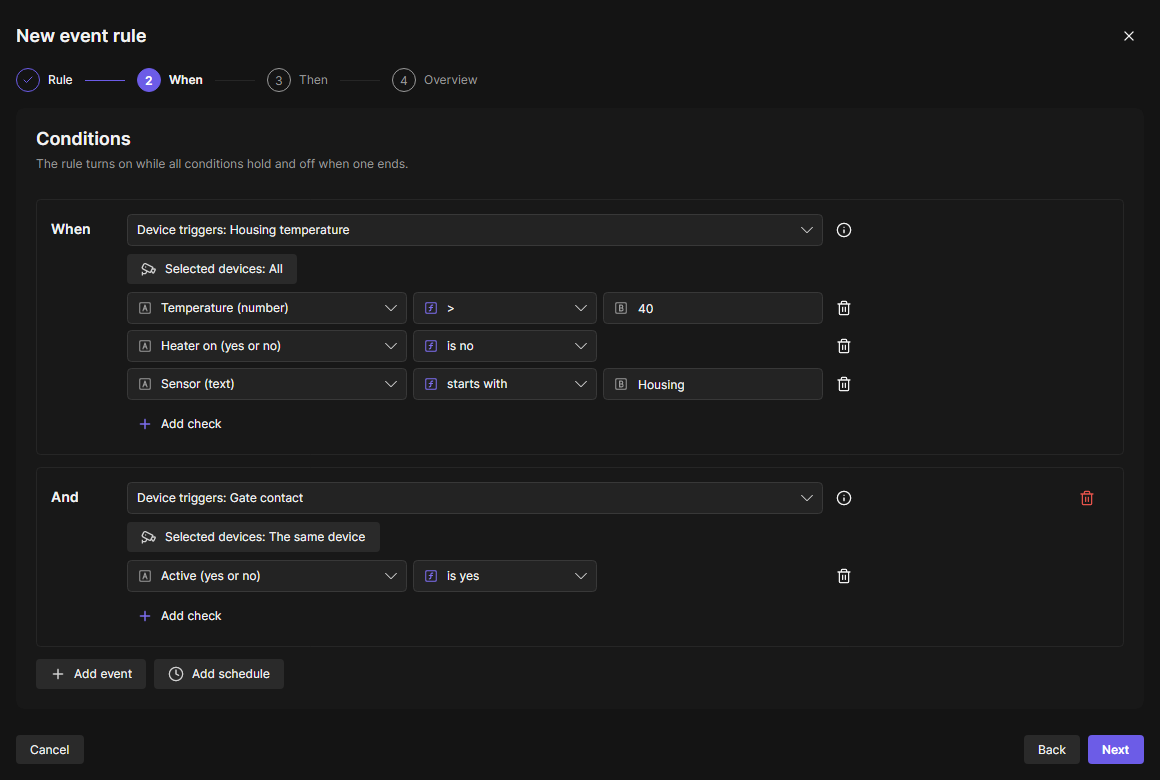
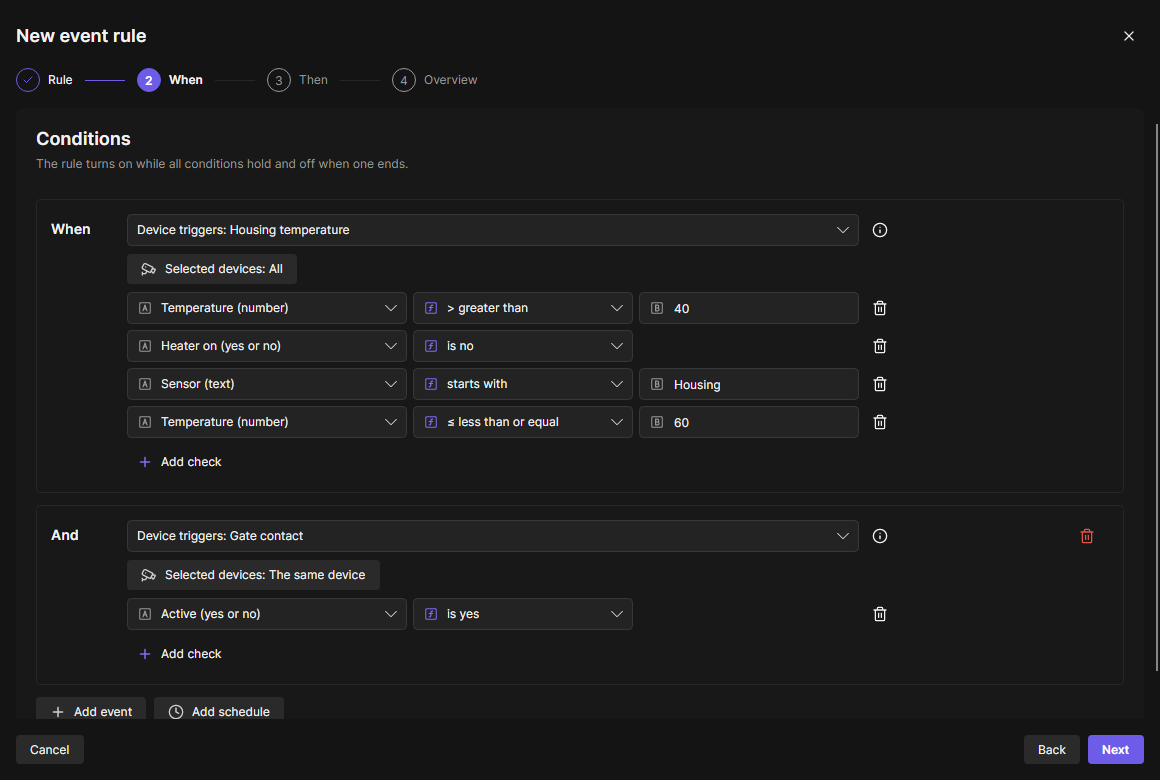
docs: event rule checks screenshot with the operator words; RuleChecks.Label in the SDK history

diff --git a/website/src/content/docs/dev/compatibility.md b/website/src/content/docs/dev/compatibility.md
@@ -78,7 +78,7 @@ in a context of its own, so two plugins can use different versions of the same l
 
 | SDK | OADM | What changed |
 |---|---|---|
-| 0.9.0 | 4.9 | Files from axis.com with the MyAxis sign-in of the user who started a task: `ITaskExecutionContext.AxisDownloads` (`IAxisDownloads`, `AxisDownloadedFile`, `AxisDownloadException`; the host downloads, checks size and SHA-256 and caches; the plugin never gets the session). Client: `ITaskDialogContext.MyAxis` (`IMyAxisSignIn`). Testing: `FakeAxisDownloads`, `FakeTaskContext.AxisDownloads`. Field checks of event rules: `RuleCondition.Checks` (`RuleCheck`, `RuleCheckOperator`), `RuleChecks` (operators by `EventValueKind`, the shared rules of a check, `Describe`, `TooMany`, `NoSuchValueText`), `RuleCondition.AllChecks` (older equals filters as `RuleCheck.IsLegacy` checks). A plugin event field with `Filter` true can be checked in a rule; `EventField.Kind` comes from `Type` when not declared (Number = number). |
+| 0.9.0 | 4.9 | Files from axis.com with the MyAxis sign-in of the user who started a task: `ITaskExecutionContext.AxisDownloads` (`IAxisDownloads`, `AxisDownloadedFile`, `AxisDownloadException`; the host downloads, checks size and SHA-256 and caches; the plugin never gets the session). Client: `ITaskDialogContext.MyAxis` (`IMyAxisSignIn`). Testing: `FakeAxisDownloads`, `FakeTaskContext.AxisDownloads`. Field checks of event rules: `RuleCondition.Checks` (`RuleCheck`, `RuleCheckOperator`), `RuleChecks` (operators by `EventValueKind`, the shared rules of a check, `Describe`, `Label`, `TooMany`, `NoSuchValueText`), `RuleCondition.AllChecks` (older equals filters as `RuleCheck.IsLegacy` checks). A plugin event field with `Filter` true can be checked in a rule; `EventField.Kind` comes from `Type` when not declared (Number = number). |
 | 0.8.0 | 4.8 | Devices with a live video stream: `IDeviceInfo.HasLiveVideo` and `DeviceCategories.HasLiveVideo` (the devices with `HasVideo` and security radars, their radar picture; for live video only). |
 | 0.7.0 | 4.7 | Core plugin pages run a task plugin like the context menu: `ICorePluginClientContext.RunTaskAsync`, also on a part of its dialog (`RunTaskAsync(pluginId, deviceIds, startView, ct)`, read by the dialog as `ITaskDialogContext.StartView`). A page opens a page of a device's web interface in Web View: `ICorePluginClientContext.OpenDevicePage`, `OpenDevicePageRequested`, `DevicePageRequest`. How a task ended: `ITaskRunner.GetOutcomeAsync` (`TaskOutcome`, `TaskEndState`). Testing: `FakeCoreContext.EndTask(id, state, message)` |
 | 0.6.0 | 4.6 | Measuring video streams on the server: `ICorePluginContext.StreamProbes` (`IDeviceStreamProbes`, `IDeviceStreamProbe`, `StreamProbeSource`, `StreamProbeRequest`, `StreamProbeCounters`, `StreamProbeTransport`, `IDeviceStreamProbe.UdpBlocked`; RTP over UDP or TCP, nothing decoded). Firewall rules for a port range: `FirewallRule.LastPort`, `PortText` and `ForServiceRange`. Testing: `FakeStreamProbes`, `FakeStreamProbe`. Client: `LineChart` and `BarChart`. |
